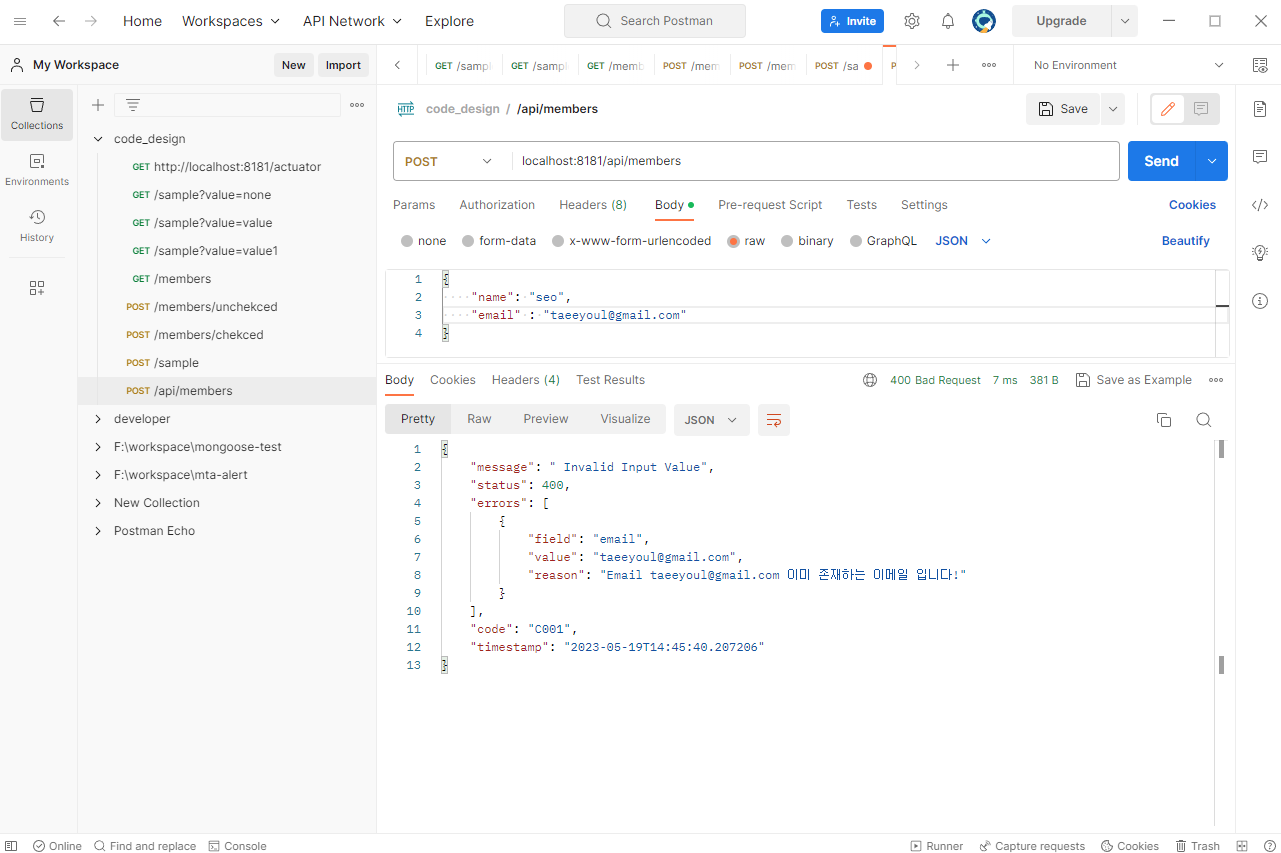
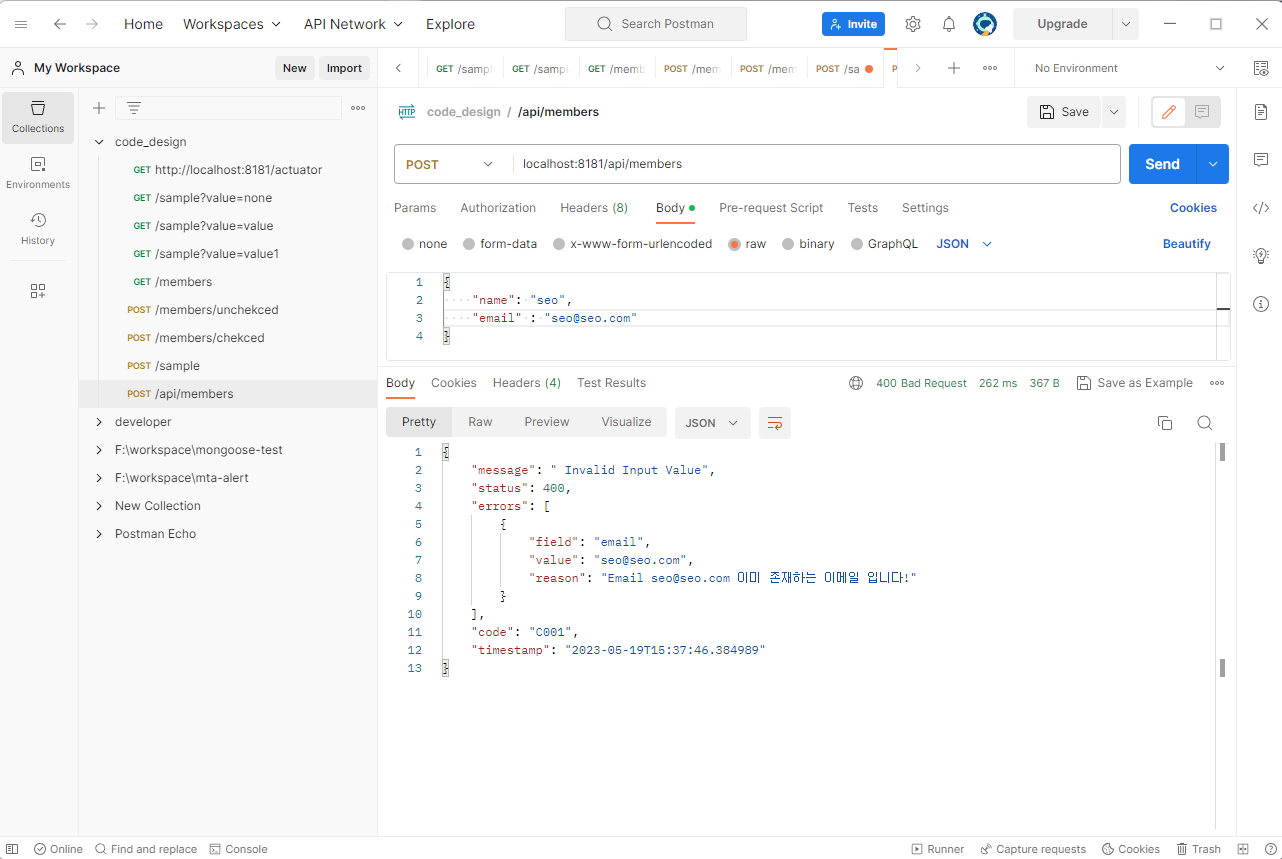
2023-05-19 Input 값 중 email annotaiton Validation 처리

diff --git a/src/main/java/com/code/design/doamin/order/order/api/OrderApi.java b/src/main/java/com/code/design/doamin/order/order/api/OrderApi.java
@@ -1,13 +1,28 @@
 package com.code.design.doamin.order.order.api;
 
+import com.code.design.order.OrderSheetRequest;
+import jakarta.validation.Valid;
 import org.springframework.web.bind.annotation.PostMapping;
+import org.springframework.web.bind.annotation.RequestBody;
 import org.springframework.web.bind.annotation.RestController;
 
 @RestController("/api/orders")
 public class OrderApi {
 
-    @PostMapping( )
-    public void doOrder( ) {
-
+    /**
+     * 주문
+     * 1. 주문에 대한 결제는 무통장 입금, 카드 결제가 가능합니다.
+     * 2. 결제 수난은 2개 중 반드시 1개를 선택하여 진행한다.
+     * 3. 무통장 결제는 환불 받을 AccountNumber, bankCode, holder 필수이다.
+     * 4. 신용 카드 결제는 number, brand, csv 정보가 필수이다.
+     * -----------------------------------------------------------------
+     * 신용 카드 결제 -> 신용 카드 정보가 필수
+     * 무통장 결제 -> 계좌 정보가 필수
+     * @param dto
+     * @return
+     */
+    @PostMapping
+    public OrderSheetRequest doOrder(@RequestBody @Valid final OrderSheetRequest dto) {
+        return dto;
     }
 }

diff --git a/src/main/java/com/code/design/AppRunner.java b/src/main/java/com/code/design/AppRunner.java
@@ -15,13 +15,13 @@ public class AppRunner implements ApplicationRunner {
     @Override
     public void run(ApplicationArguments args) throws Exception {
         memberRepository.save(
-                new Member("yun","yun@tes.com")
+                new Member("yun","yun@yun.com")
         );
         memberRepository.save(
-                new Member("test","test@tes.com")
+                new Member("test","test@test.com")
         );
         memberRepository.save(
-                new Member("seo","taeeyoul@gmail.com")
+                new Member("seo","seo@seo.com")
         );
     }
 }

diff --git a/src/main/java/com/code/design/order/OrderSheetForm.java b/src/main/java/com/code/design/order/OrderSheetForm.java
@@ -14,7 +14,8 @@ import jakarta.validation.Payload;
 @Retention(RetentionPolicy.RUNTIME)
 public @interface OrderSheetForm {
 
-    String message() default "Order sheet form is invalid";
+    // String message() default "Order sheet form is invalid";
+    String message() default "주문 정보가 올바르지 않습니다.";
 
     Class<?>[] groups() default {};
 

diff --git a/README.md b/README.md
@@ -164,5 +164,6 @@ public class DeviceController {
 ## Custom Validation 어노테이션 만들기
 - 카드결제, 무통장 결제 예시에서는 NonNull Annotation 을 같은 항목에 적용 불가능한 경우를 예시로 들어 작성  
 - 중복된 코드 제거
-![email-custom-validation.png](./img/email-custom-validation.png)  
+- email custom annotation 
+  ![email-custom-validation.png](./img/email-custom-validation.png)  
 
